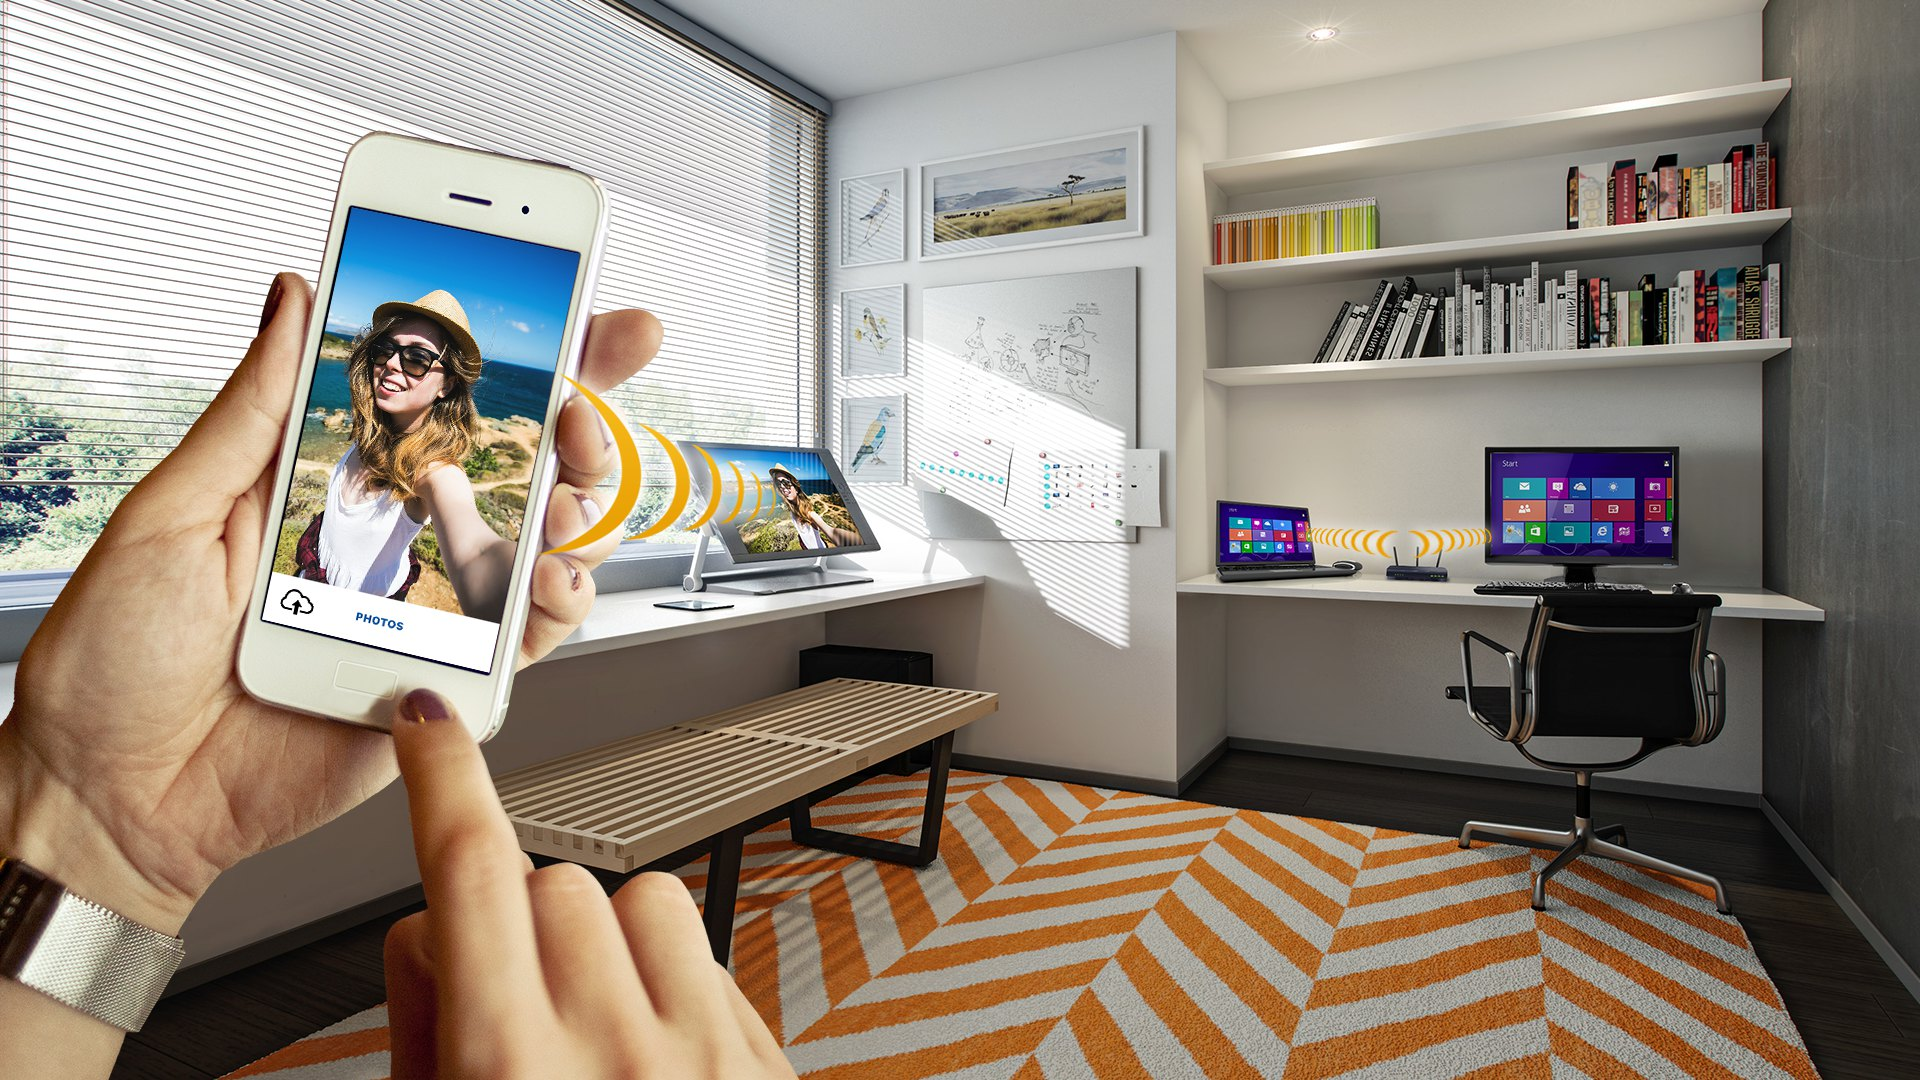
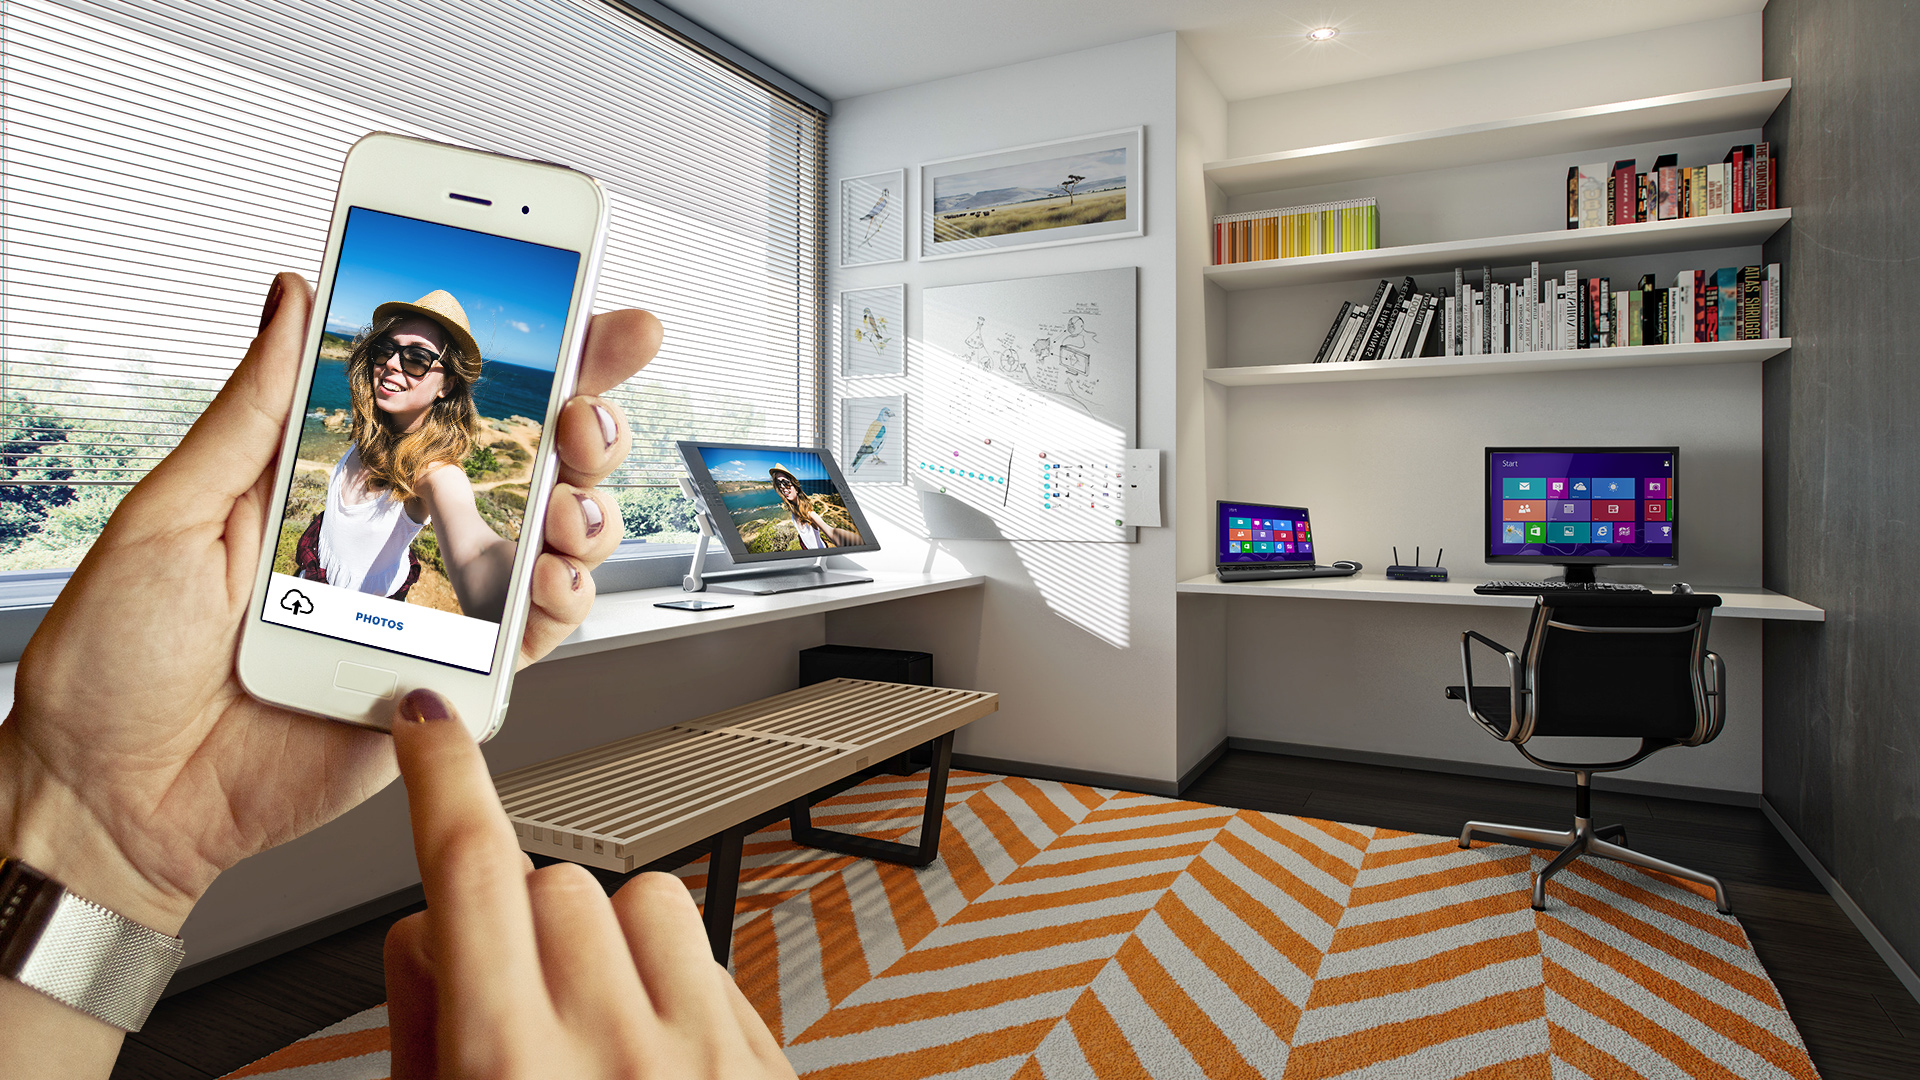
adding line animations to the At Home - TB demo

diff --git a/includes/gui.css b/includes/gui.css
@@ -599,6 +599,7 @@ body.mu-mode .col.mu .gain {
   width: 100%;
   height: 33.333333%%;
   position: relative;
+  overflow: hidden;
 }
 .rbtn.onthego {
   background-image: url(images/2015/btn-onthego-bg.jpg);
@@ -649,32 +650,43 @@ body.mu-mode .col.mu .gain {
 .layover,
 .dbx {
   opacity: 0;
-  display: none;
   
-  -webkit-transition: opacity 100ms linear;
-  -moz-transition: opacity 100ms linear;
-  transition: opacity 100ms linear;
+  -webkit-transition: opacity 400ms ease-in-out;
+  -moz-transition: opacity 400ms ease-in-out;
+  transition: opacity 400ms ease-in-out;
 }
-.active .layover,
-.active .dbx {
-  display: block;
+.active .layover {
   opacity: 1;
 }
 .dbx {
   background: #91247e url(images/2015/btn-athome-mu.jpg) no-repeat 0 0;
   background-size: contain;
+  display: block;
   width: 43.75%;
   height: 58.33333%;
   position: absolute;
-  top: 8.33333%;
+  top: -208.33333%;
   left: 4.5%;
   z-index: 6;
+}
+.dbx.mu {
+  -webkit-transition-delay: 200ms;
+  -moz-transition-delay: 200ms;
+  transition-delay: 200ms;
 }
 .dbx.tb {
   background-color: #e99f00;
   background-image: url(images/2015/btn-athome-tb.jpg);
   left: auto;
   right: 4.5%;
+  
+  -webkit-transition-delay: 400ms;
+  -moz-transition-delay: 400ms;
+  transition-delay: 400ms;
+}
+.active .dbx {
+  opacity: 1;
+  top: 8.33333%;
 }
 .rbtn.onthego .dbx.mu {
   background-image: url(images/2015/btn-onthego-mu.jpg);
@@ -834,23 +846,63 @@ body.loading {
 /* other demo scenes */
 .screen.athome-tb {
   background: url(images/2015/athome-tb.jpg) no-repeat 50% 50%;
-  background-size: cover;
+}
+.athome-tb .sig1 {
+  background: url(images/2015/athome-tb-1.png) no-repeat 275px 0;
+  display: block;
+  width: 275px;
+  height: 219px;
+  position: absolute;
+  left: 50%;
+  top: 50%;
+  margin: -186px 0 0 -440px;
+  
+  animation: playathometb1 1s steps(12) infinite;
+}
+@keyframes playathometb1 {
+	100% { background-position: -3025px; }
+}
+.athome-tb .sig2 {
+  background: url(images/2015/athome-tb-2.png) no-repeat 118px 0;
+  display: block;
+  width: 118px;
+  height: 58px;
+  position: absolute;
+  left: 50%;
+  top: 50%;
+  margin: -27px 0 0 332px;
+  
+  animation: playathometb2 0.6s steps(20) infinite;
+}
+@keyframes playathometb2 {
+	100% { background-position: -2242px; }
+}
+.athome-tb .sig3 {
+  background: url(images/2015/athome-tb-3.png) no-repeat 110px 0;
+  display: block;
+  width: 110px;
+  height: 58px;
+  position: absolute;
+  left: 50%;
+  top: 50%;
+  margin: -27px 0 0 436px;
+  
+  animation: playathometb3 1s steps(16) infinite;
+}
+@keyframes playathometb3 {
+	100% { background-position: -1650px; }
 }
 .screen.office-tb {
   background: url(images/2015/office-tb.jpg) no-repeat 50% 50%;
-  background-size: cover;
 }
 .screen.office-mu {
   background: url(images/2015/office-mu.jpg) no-repeat 50% 50%;
-  background-size: cover;
 }
 .screen.onthego-tb {
   background: url(images/2015/onthego-tb.jpg) no-repeat 50% 50%;
-  background-size: cover;
 }
 .screen.onthego-mu {
   background: url(images/2015/onthego-mu.jpg) no-repeat 50% 50%;
-  background-size: cover;
 }
 .dhome {
   background: url(images/2015/home.png) no-repeat 0 0;

diff --git a/partials/scene-athome-tb.html b/partials/scene-athome-tb.html
@@ -1,4 +1,8 @@
 <!-- line animations here?! -->
+<div class="sig1"></div>
+<div class="sig2"></div>
+<div class="sig3"></div>
+<!-- nav buttons too -->
 <a href="#" class="dhome" ng-click="showDemo('home')">Home</a>
 <a href="#" class="dbtn mu" ng-click="showDemo('athome-mu')">MU</a>
 <a href="#" class="dbtn tb onn" ng-click="showDemo('athome-tb')">TB</a>
